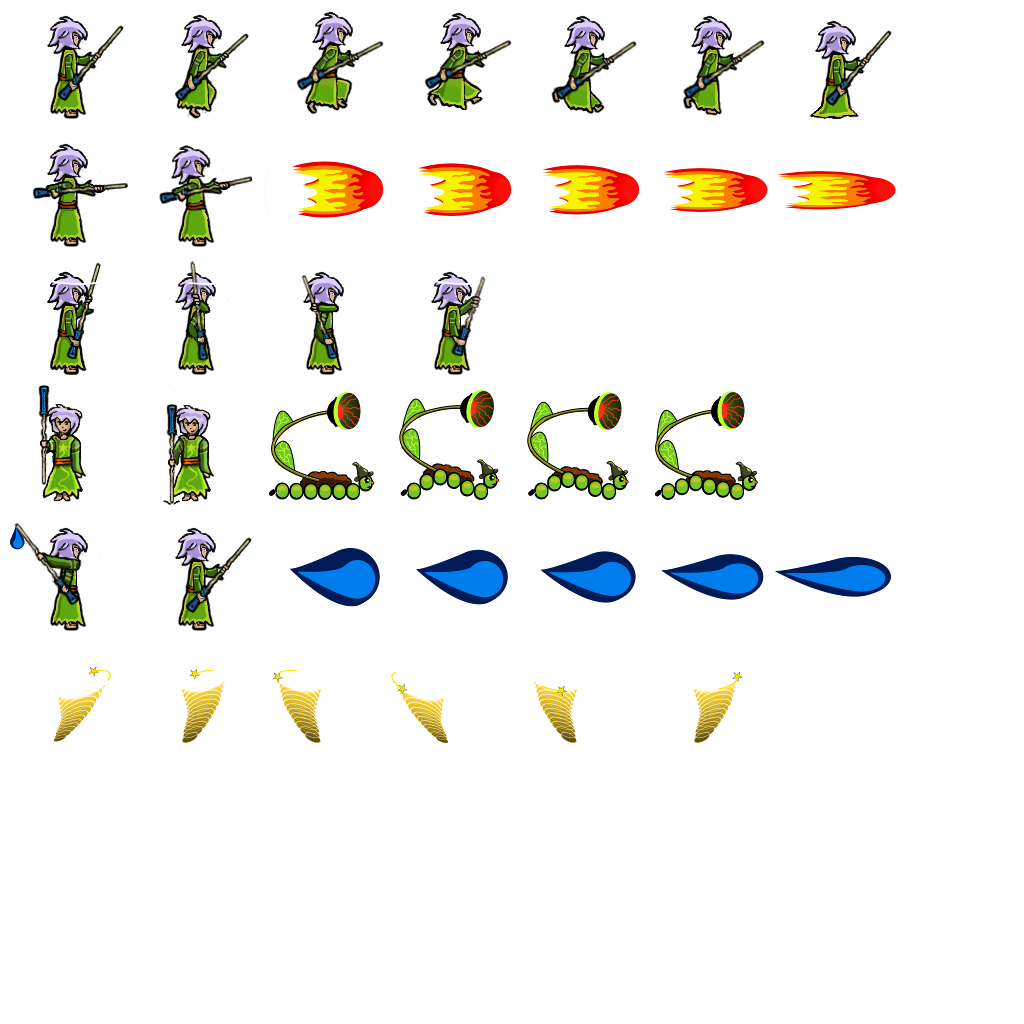
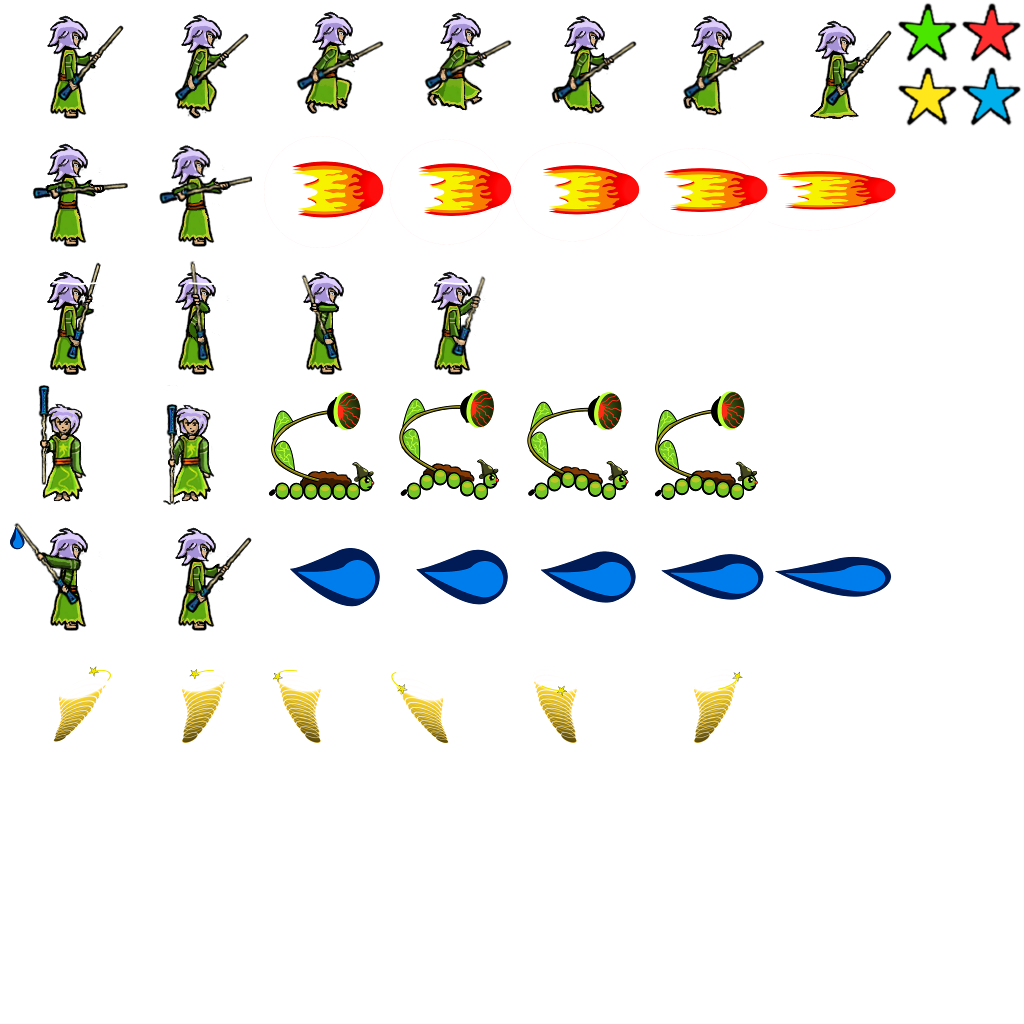
20 dec Collision på earth med snake och hedgehog, tar bort enemies och visar stjärnor

Changed region(s): [[0.875, 0.0, 1.0, 0.125]]

diff --git a/app/src/main/java/com/l2minigames/wanderfulworld/World.java b/app/src/main/java/com/l2minigames/wanderfulworld/World.java
@@ -44,6 +44,7 @@ public class World {
     public final List<Snake> snakes;
     public final List<Stone> stones;
     public final List<Ghost> ghosts;
+    public final List<Star> stars;
     public Castle castle;    
     public final WorldListener listener;
     public final Random rand;
@@ -71,6 +72,7 @@ public class World {
         this.snakes = new ArrayList<Snake>();
         this.stones = new ArrayList<Stone>();
         this.ghosts = new ArrayList<Ghost>();
+        this.stars = new ArrayList<Star>();
         this.earths = new ArrayList<Earth>();
         this.fires = new ArrayList<Fire>();
         this.airs = new ArrayList<Air>();
@@ -153,6 +155,7 @@ public class World {
         updateAirs(deltaTime);
         updateWaters(deltaTime);
         updateEnemies(deltaTime);
+        updateStars(deltaTime);
         removeUnusedObjects(deltaTime);
 
         checkGround();
@@ -298,6 +301,17 @@ public class World {
         }
 
     }
+    public void updateStars(float deltaTime){
+        int len = stars.size();
+        for (int i = 0; i < len; i++) {
+            Star star = stars.get(i);
+            star.update(deltaTime);
+            if (star.position.x<0){
+                stars.remove(i);
+                len=stars.size();
+            }
+        }
+    }
     public void updateEnemies(float deltaTime){
 
         int len = hedgehogs.size();
@@ -431,6 +445,57 @@ public class World {
         airs.add(air);
 
     }
+    public void createStars(float posx, float posy, String color){
+
+        Star star = new Star(posx,posy);
+        star.velocity.x=15;
+        star.velocity.y=0;
+        star.color = color;
+        stars.add(star);
+
+        Star star2 = new Star(posx,posy);
+        star2.velocity.x=-15;
+        star2.velocity.y=0;
+        star2.color = color;
+        stars.add(star2);
+
+        Star star3 = new Star(posx,posy);
+        star3.velocity.x=0;
+        star3.velocity.y=15;
+        star3.color = color;
+        stars.add(star3);
+
+        Star star4 = new Star(posx,posy);
+        star4.velocity.x=0;
+        star4.velocity.y=-15;
+        star4.color = color;
+        stars.add(star4);
+
+        Star star5 = new Star(posx,posy);
+        star5.velocity.x=15;
+        star5.velocity.y=15;
+        star5.color = color;
+        stars.add(star5);
+
+        Star star6 = new Star(posx,posy);
+        star6.velocity.x=-15;
+        star6.velocity.y=15;
+        star6.color = color;
+        stars.add(star6);
+
+        Star star7 = new Star(posx,posy);
+        star7.velocity.x=15;
+        star7.velocity.y=-15;
+        star7.color = color;
+        stars.add(star7);
+
+        Star star8 = new Star(posx,posy);
+        star8.velocity.x=-15;
+        star8.velocity.y=-15;
+        star8.color = color;
+        stars.add(star8);
+
+    }
     public void createWater(){
 
         Water water = new Water(molly.position.x-1,molly.position.y-1);
@@ -527,11 +592,15 @@ public class World {
     }
 
     private void checkCollisions() {
+
+        ///SuperJumper-metoder
         checkPlatformCollisions();
         checkSquirrelCollisions();
         checkItemCollisions();
         checkCastleCollisions();
+        ///Mina metoder
         checkEarthGroundCollisions();
+        checkEarthEnemyCollisions();
     }
 
     private void checkPlatformCollisions() {
@@ -573,6 +642,38 @@ public class World {
                earth.velocity.y = 0;
                earth.velocity.x = 2;
                 earth.position.y =17.8f;
+            }
+        }
+    }
+
+    private void checkEarthEnemyCollisions() {
+        int len = earths.size();
+        int len2 = snakes.size();
+        int len3 = hedgehogs.size();
+        for (int i = 0; i < len; i++) {
+            Earth earth = earths.get(i);
+
+            for (int j = 0; j<len2;j++){
+                Snake snake = snakes.get(j);
+                if (OverlapTester.overlapRectangles(earth.bounds, snake.bounds)) {
+                    createStars(earth.position.x, earth.position.y, "green");
+                    earths.remove(earth);
+                    snakes.remove(snake);
+                    len2 = snakes.size();
+                    len =earths.size();
+
+                }
+            }
+
+            for (int j = 0; j<len3;j++){
+                Hedgehog hedgehog = hedgehogs.get(j);
+                if (OverlapTester.overlapRectangles(earth.bounds, hedgehog.bounds)) {
+                    createStars(earth.position.x, earth.position.y, "green");
+                    earths.remove(earth);
+                    hedgehogs.remove(hedgehog);
+                    len3 = hedgehogs.size();
+                    len =earths.size();
+                }
             }
         }
     }

diff --git a/app/src/main/java/com/l2minigames/wanderfulworld/WorldRenderer.java b/app/src/main/java/com/l2minigames/wanderfulworld/WorldRenderer.java
@@ -82,6 +82,7 @@ public class WorldRenderer {
         renderFires();
         renderAirs();
         renderWaters();
+        renderStars();
         batcher.endBatch();
         batcher.beginBatch(Assets.enemyatlas);
         renderHedgehogs();
@@ -300,6 +301,22 @@ public class WorldRenderer {
             batcher.drawSprite(10, 16, 4, 1, Assets.itemsLog);
             batcher.drawSprite(14, 16, 4, 1, Assets.itemsLog);
             batcher.drawSprite(18, 16, 4, 1, Assets.itemsLog);
+        }
+
+    }
+    private void renderStars(){
+        int len = world.stars.size();
+        for(int i = 0; i < len; i++) {
+            Star star = world.stars.get(i);
+            if (star.color.equals("green")) {
+                batcher.drawSprite(star.position.x, star.position.y, 3, 3, Assets.starGreen);
+            } else if (star.color.equals("red")) {
+                batcher.drawSprite(star.position.x, star.position.y, 3, 3, Assets.starRed);
+            } else if (star.color.equals("yellow")) {
+                batcher.drawSprite(star.position.x, star.position.y, 3, 3, Assets.starYellow);
+            } else if (star.color.equals("blue")) {
+                batcher.drawSprite(star.position.x, star.position.y, 3, 3, Assets.starBlue);
+            }
         }
 
     }

diff --git a/app/src/main/java/com/l2minigames/wanderfulworld/Assets.java b/app/src/main/java/com/l2minigames/wanderfulworld/Assets.java
@@ -49,6 +49,10 @@ public class Assets {
     public static TextureRegion pause;    
     public static TextureRegion spring;
     public static TextureRegion castle;
+    public static TextureRegion starGreen;
+    public static TextureRegion starRed;
+    public static TextureRegion starYellow;
+    public static TextureRegion starBlue;
     public static Animation coinAnim;
     public static Animation bobJump;
     public static Animation mollyJump;
@@ -129,6 +133,11 @@ public class Assets {
         
         spring = new TextureRegion(items, 128, 0, 32, 32);
         castle = new TextureRegion(items, 128, 64, 64, 64);
+        starGreen = new TextureRegion(playeratlas, 896, 0, 64, 64);
+        starRed = new TextureRegion(playeratlas, 960, 0, 64, 64);
+        starYellow = new TextureRegion(playeratlas, 896, 64, 64, 64);
+        starBlue = new TextureRegion(playeratlas, 960, 64, 64, 64);
+
         coinAnim = new Animation(0.2f,                                 
                                  new TextureRegion(items, 128, 32, 32, 32),
                                  new TextureRegion(items, 160, 32, 32, 32),

diff --git a/app/src/main/java/com/l2minigames/wanderfulworld/Star.java b/app/src/main/java/com/l2minigames/wanderfulworld/Star.java
@@ -1,0 +1,26 @@
+package com.l2minigames.wanderfulworld;
+
+import com.l2minigames.framework.DynamicGameObject;
+
+/**
+ * Created by umyhlarsle on 2016-12-20.
+ */
+public class Star extends DynamicGameObject {
+    public static final float STAR_WIDTH = 1;
+    public static final float STAR_HEIGHT = 1f;
+    public static final float STAR_VELOCITY = 1f;
+    String color ="green";
+
+    float stateTime = 0;
+
+    public Star(float x, float y) {
+        super(x, y, STAR_WIDTH, STAR_HEIGHT);
+        velocity.set(STAR_VELOCITY, 0);
+    }
+
+    public void update(float deltaTime) {
+        position.add(velocity.x * deltaTime, velocity.y * deltaTime);
+        bounds.lowerLeft.set(position).sub(STAR_WIDTH / 2, STAR_HEIGHT / 2);
+        stateTime += deltaTime;
+    }
+}
